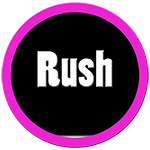
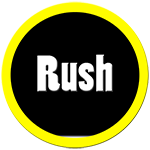
aggiunta x, resume e quit, pulsante setting e modificato pulsante rush

Changed region(s): [[0.0, 0.0, 1.0, 1.0], [0.24, 0.32, 0.7733, 0.6133]]

diff --git a/bdsir_takearound/src/it/unisa/bdsir_takearound/game/LoadingScreen.java b/bdsir_takearound/src/it/unisa/bdsir_takearound/game/LoadingScreen.java
@@ -27,9 +27,10 @@ public class LoadingScreen extends Screen {
     	Assets.help3 = g.newPixmap("help3.png", PixmapFormat.ARGB4444);
     	Assets.numbers = g.newPixmap("numbers.png", PixmapFormat.ARGB4444);
     	Assets.ready = g.newPixmap("readymod.png", PixmapFormat.ARGB4444);
-    	Assets.pause = g.newPixmap("pausemenu.png", PixmapFormat.ARGB4444);
+    	Assets.pause = g.newPixmap("pausemod.png", PixmapFormat.ARGB4444);
     	Assets.gameOver = g.newPixmap("gameovernewmod.png", PixmapFormat.ARGB4444);
     	Assets.win = g.newPixmap("winnewmod.png", PixmapFormat.ARGB4444);
+    	Assets.xbutton = g.newPixmap("xmod.png", PixmapFormat.ARGB4444);
 
 
 
@@ -51,6 +52,7 @@ public class LoadingScreen extends Screen {
     	//Assets.playbutton = g.newPixmap("play.png", PixmapFormat.ARGB4444);
     	Assets.tutorialbutton = g.newPixmap("tutorialmod.png", PixmapFormat.ARGB4444);
     	Assets.recordbutton = g.newPixmap("recordmod.png", PixmapFormat.ARGB4444);
+    	Assets.settingsbutton = g.newPixmap("settingsmod.png", PixmapFormat.ARGB4444);
 
     	//caricamento immagini numeri
     	Assets.num0 = g.newPixmap("default-0.png", PixmapFormat.ARGB4444);

diff --git a/bdsir_takearound/src/it/unisa/bdsir_takearound/game/GameScreen.java b/bdsir_takearound/src/it/unisa/bdsir_takearound/game/GameScreen.java
@@ -68,13 +68,16 @@ public abstract class GameScreen extends Screen {
 						state = GameState.Running;
 						
 						return;
-					}                    
+					}    
+				}
+				if(event.x > 120 && event.x <= 200){
 					if(event.y > 148 && event.y < 196) {
 						if(Settings.soundEnabled)
 							Assets.click.play(1);
 						game.setScreen(new MainMenuScreen(game));                        
 						return;
 					}
+				
 				}
 			}
 		}
@@ -159,15 +162,14 @@ public abstract class GameScreen extends Screen {
 		Graphics g = game.getGraphics();
 
 		g.drawPixmap(Assets.gameOver, 20, 30);
-		g.drawPixmap(Assets.buttons, 128, 200, 0, 128, 64, 64);
-		g.drawLine(0, 416, 480, 416, Color.BLACK);
+		g.drawPixmap(Assets.xbutton, 128, 200);
 	}
 	public void drawWinUI() {
 		Graphics g = game.getGraphics();
 
 		g.drawPixmap(Assets.win, 70, 30);
-		g.drawPixmap(Assets.buttons, 128, 200, 0, 128, 64, 64);
-	}
+		g.drawPixmap(Assets.xbutton, 128, 200);
+		}
 
 	public void drawText(Graphics g, String line, int x, int y) {
 		int len = line.length();

diff --git a/bdsir_takearound/src/it/unisa/bdsir_takearound/game/Assets.java b/bdsir_takearound/src/it/unisa/bdsir_takearound/game/Assets.java
@@ -24,11 +24,13 @@ public class Assets {
     
     public static Pixmap playbutton;
     public static Pixmap tutorialbutton;
+    public static Pixmap settingsbutton;
     public static Pixmap recordbutton;
     public static Pixmap num0,num1,num2,num3,num4,num5,num6,num7,num8,num9;
     public static Pixmap target;
     public static Pixmap playnormalbutton;
     public static Pixmap playrushbutton;
+    public static Pixmap xbutton;
     
     public static Sound click;
     public static Sound eat;

diff --git a/bdsir_takearound/src/it/unisa/bdsir_takearound/game/GameNormalScreen.java b/bdsir_takearound/src/it/unisa/bdsir_takearound/game/GameNormalScreen.java
@@ -187,7 +187,9 @@ public class GameNormalScreen extends GameScreen {
 						state = GameState.Running;
 						
 						return;
-					}                    
+					}    
+				}
+					if(event.x > 120 && event.x <= 200){
 					if(event.y > 148 && event.y < 196) {//chiude la schermata di gioco e torna al menu
 						if(Settings.soundEnabled)
 							Assets.click.play(1);

diff --git a/bdsir_takearound/src/it/unisa/bdsir_takearound/game/GameRushScreen.java b/bdsir_takearound/src/it/unisa/bdsir_takearound/game/GameRushScreen.java
@@ -175,7 +175,9 @@ public class GameRushScreen extends GameScreen {
 						state = GameState.Running;
 						
 						return;
-					}                    
+					}  
+				}
+				if(event.x > 120 && event.x <= 200){
 					if(event.y > 148 && event.y < 196) {//chiude la schermata di gioco e torna al menu
 						if(Settings.soundEnabled)
 							Assets.click.play(1);

diff --git a/bdsir_takearound/src/it/unisa/bdsir_takearound/game/MainMenuScreen.java b/bdsir_takearound/src/it/unisa/bdsir_takearound/game/MainMenuScreen.java
@@ -101,7 +101,7 @@ public class MainMenuScreen extends Screen {
       //  g.drawPixmap(Assets.playbutton, 120, 50);
         g.drawPixmap(Assets.tutorialbutton, 370, 50);
         g.drawPixmap(Assets.recordbutton, 300, 130);
-        g.drawPixmap(Assets.tutorialbutton, 370, 210);
+        g.drawPixmap(Assets.settingsbutton, 370, 210);
     }
 
     @Override
